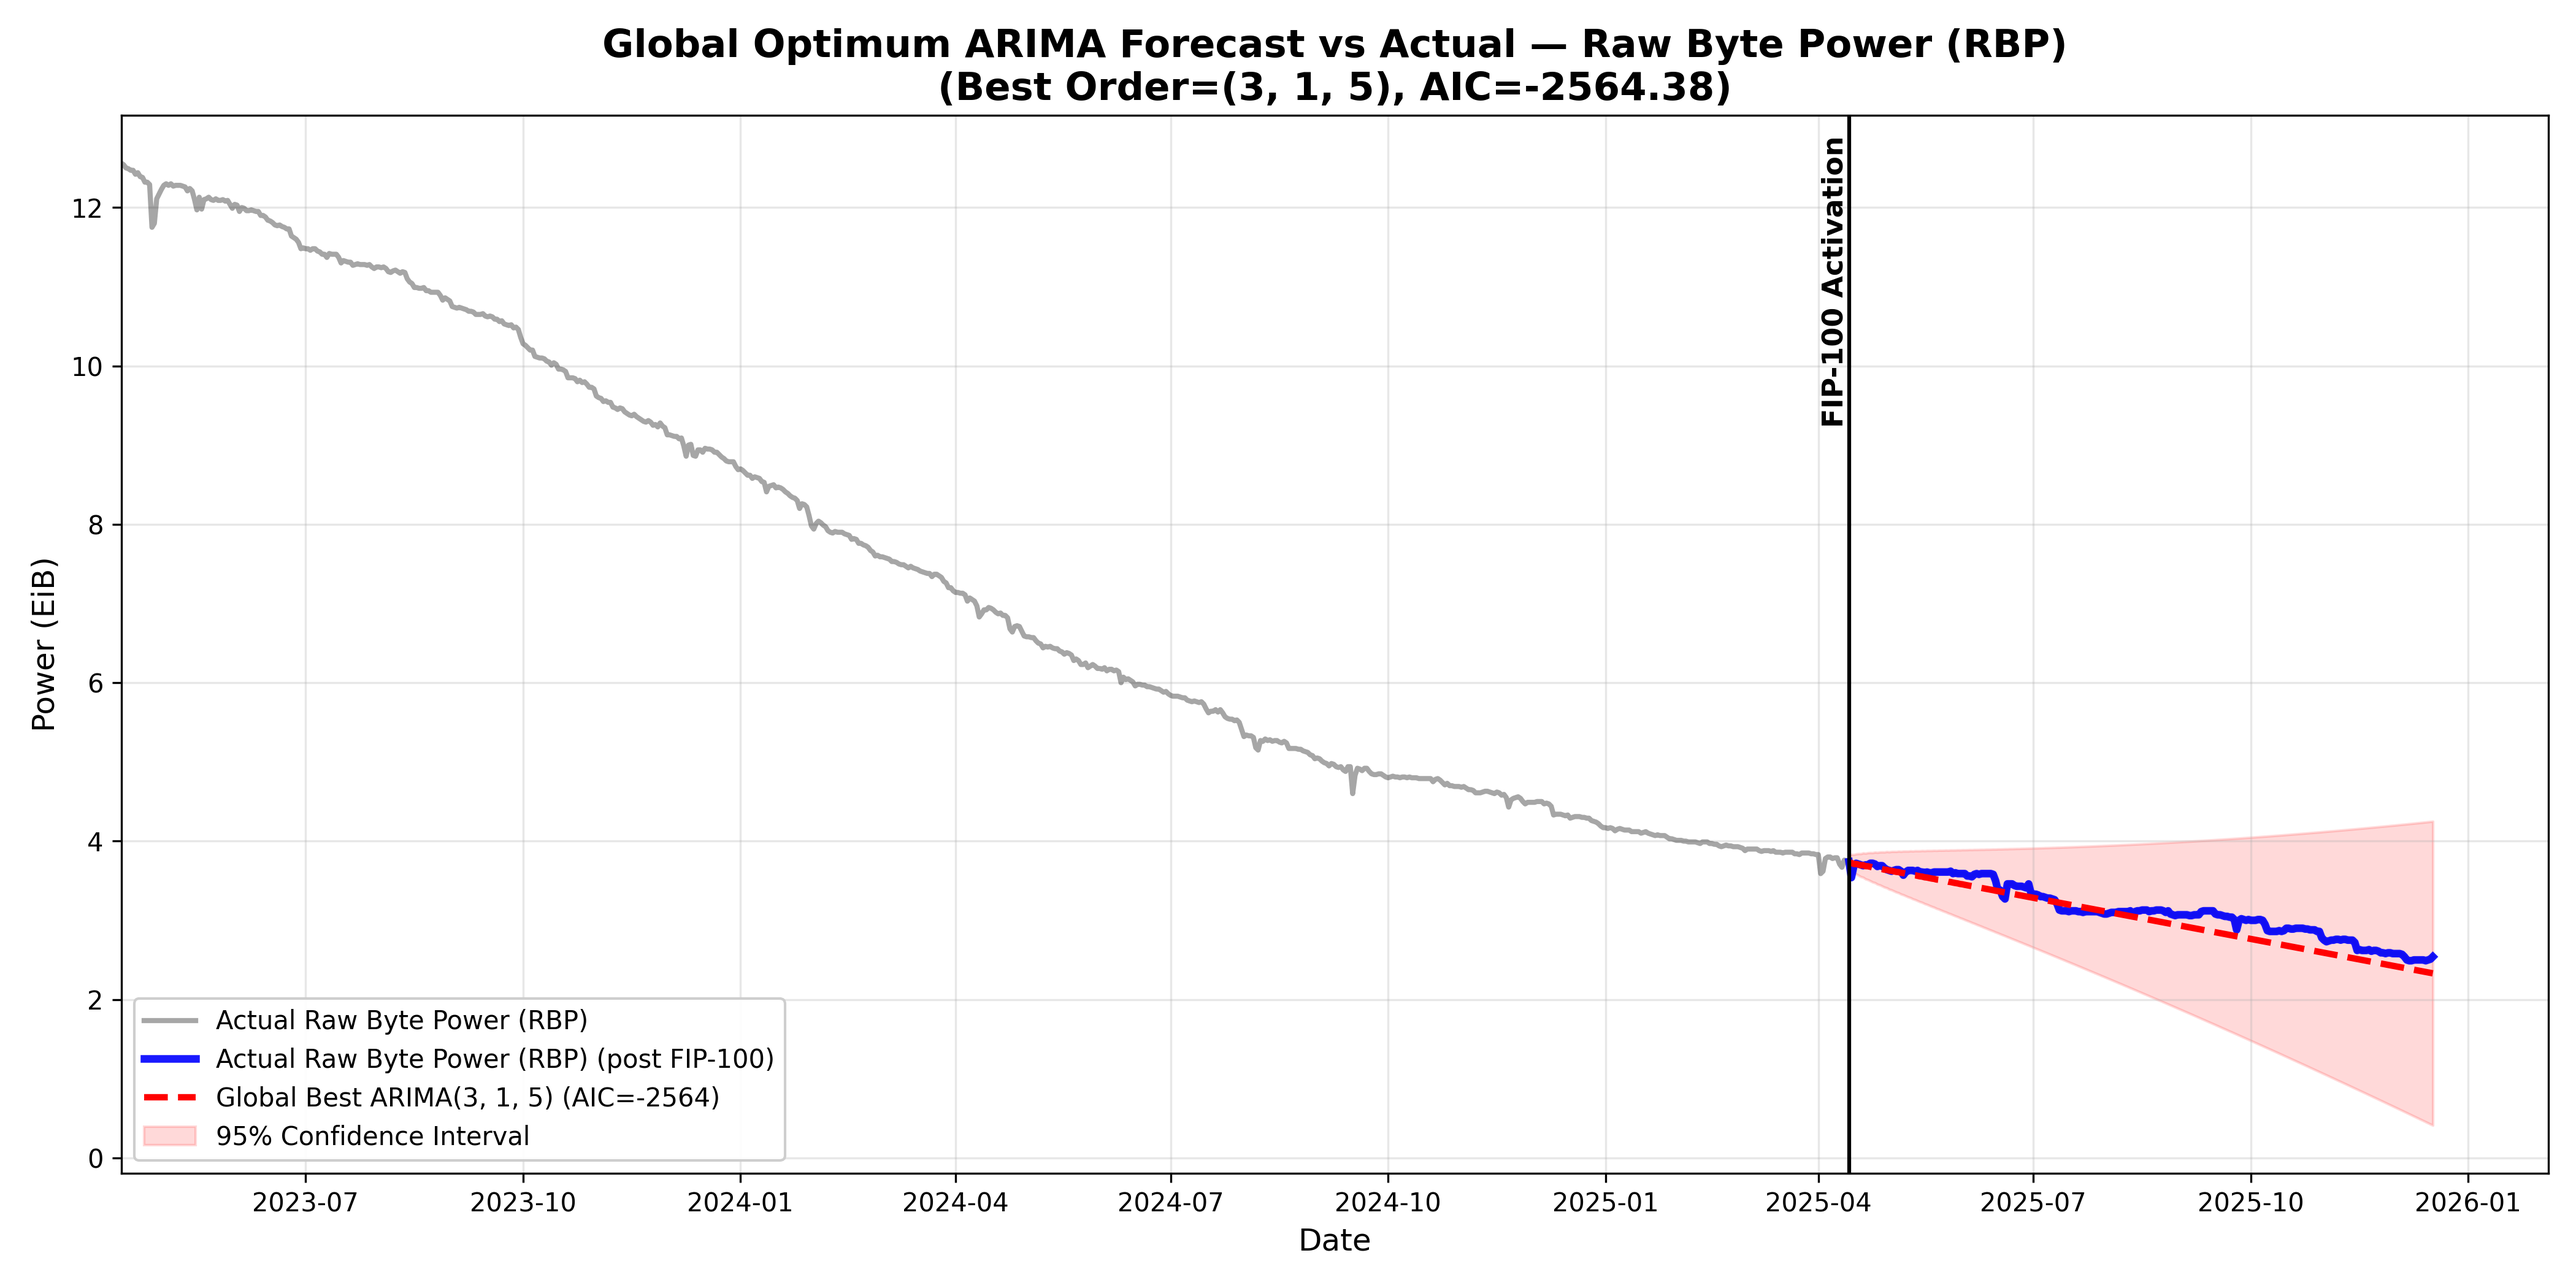
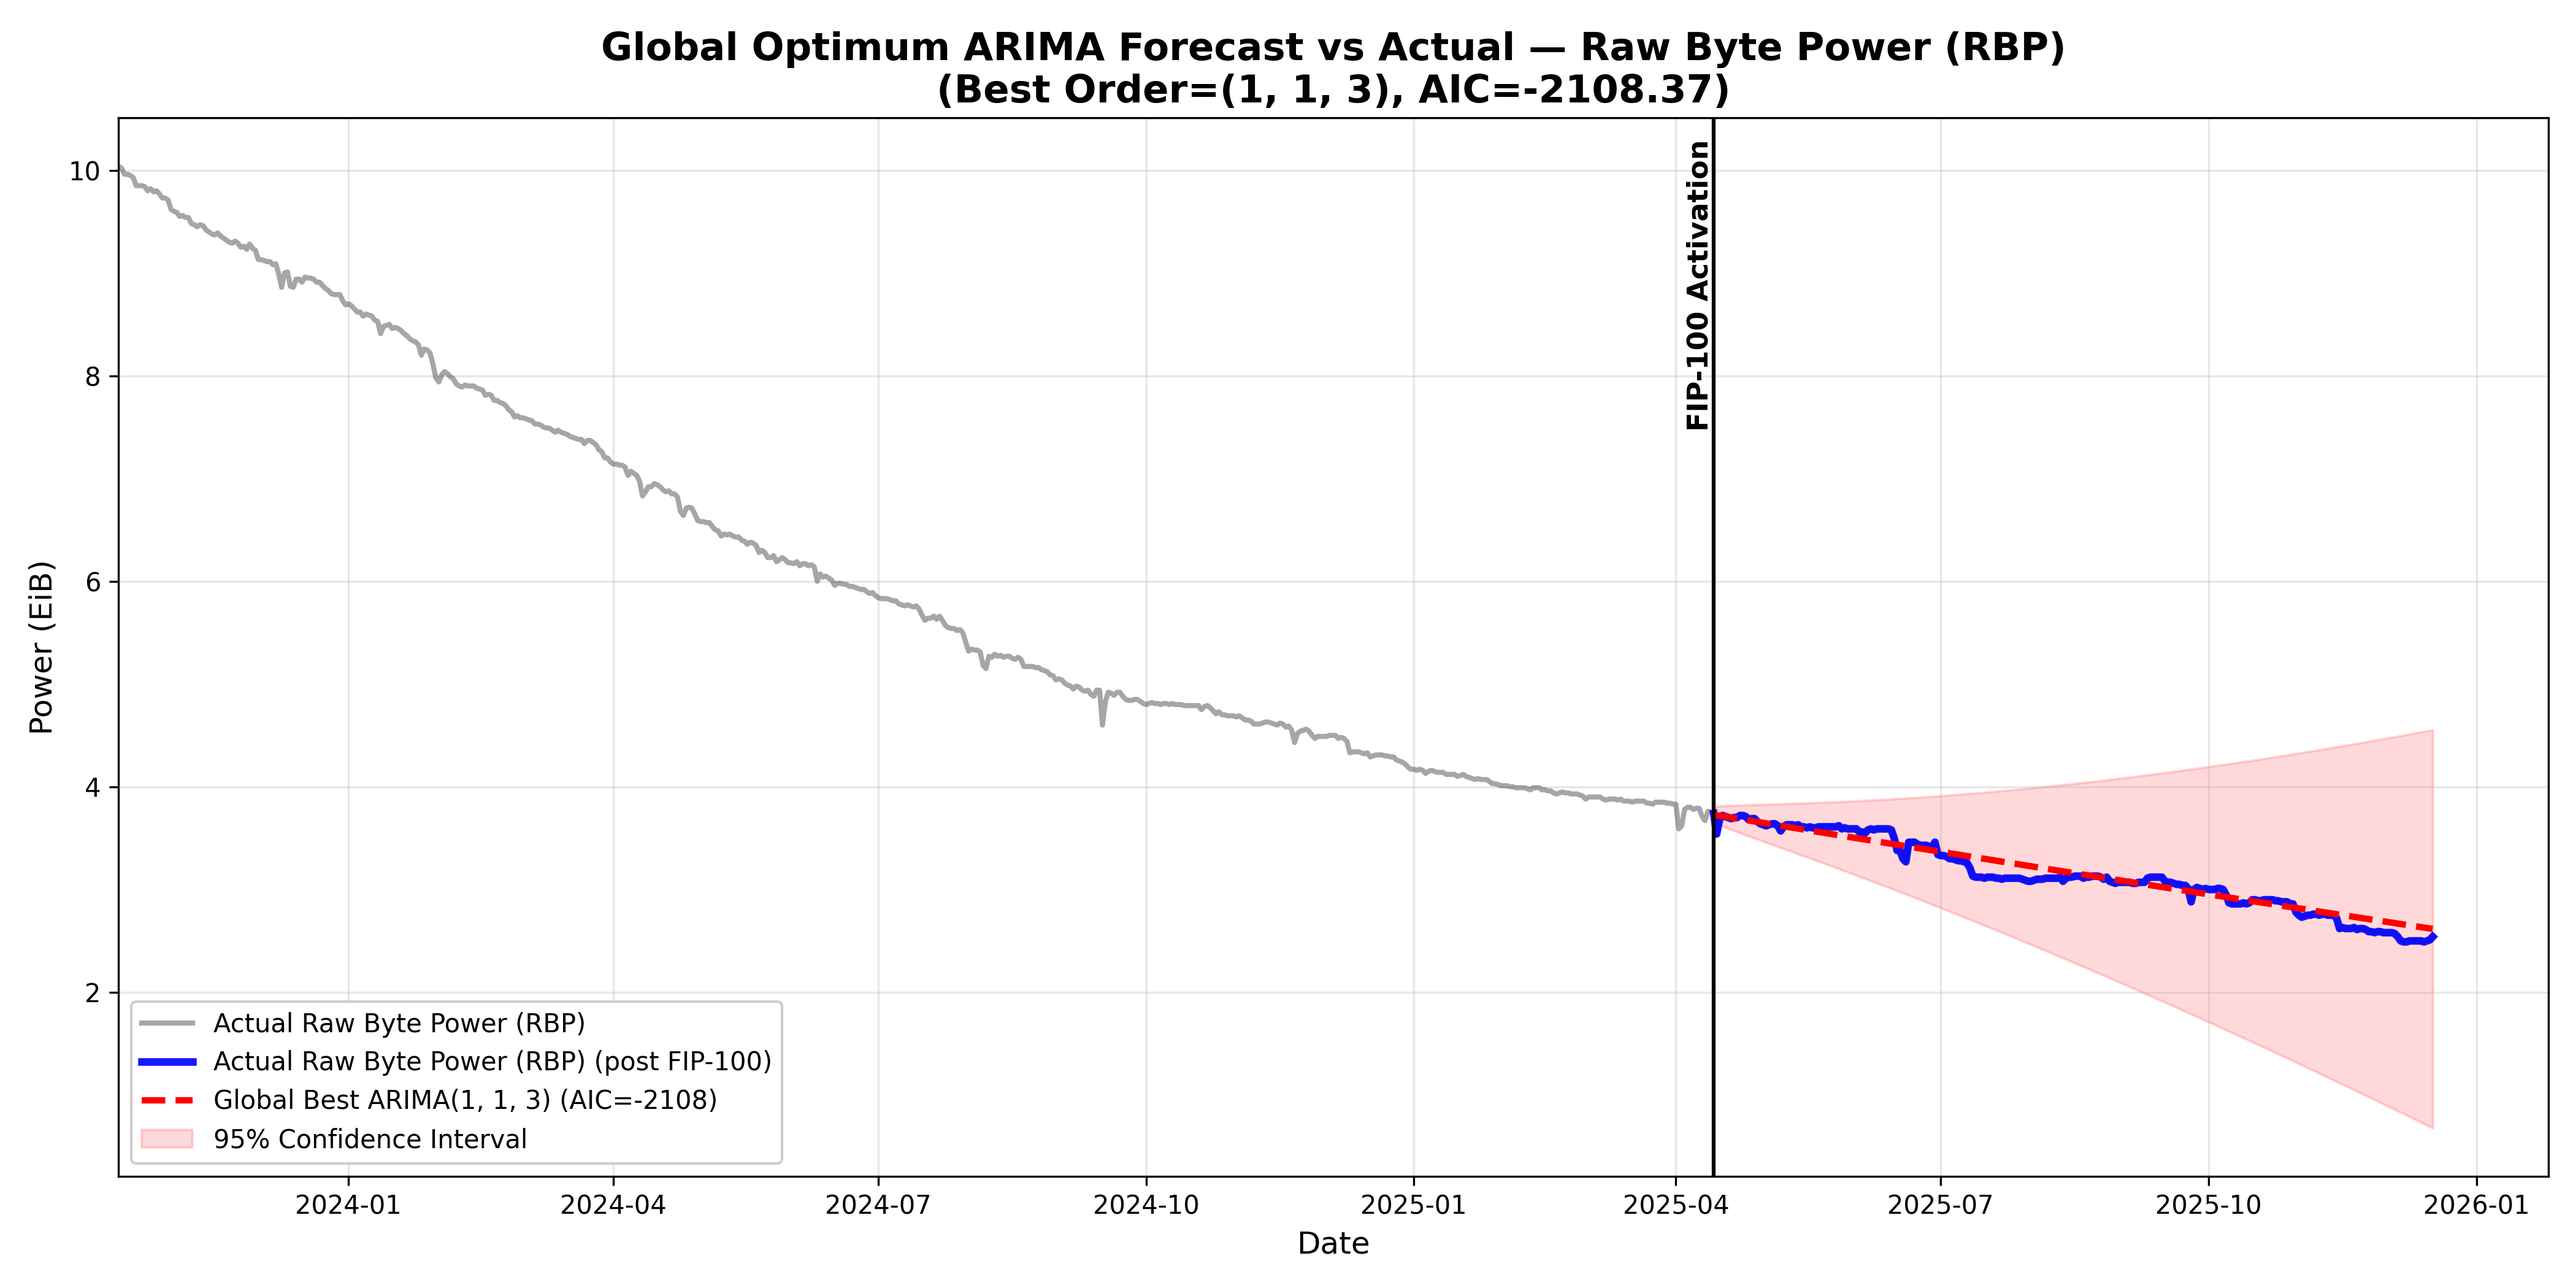
Included lljungbox analysis to check parameters choice

diff --git a/main.py b/main.py
@@ -1,5 +1,6 @@
 import warnings
 from statsmodels.tools.sm_exceptions import ConvergenceWarning
+from statsmodels.stats.diagnostic import acorr_ljungbox
 
 import pandas as pd
 import numpy as np
@@ -9,10 +10,53 @@ from pathlib import Path
 from statsmodels.tsa.arima.model import ARIMA
 import itertools
 
+
+from statsmodels.graphics.tsaplots import plot_acf
+from statsmodels.graphics.gofplots import qqplot
+import scipy.stats as stats
+
+def plot_diagnostics(res, name):
+    """
+    Generates a 4-panel diagnostic plot for the ARIMA residuals.
+    """
+    # Extract standardized residuals
+    resid = res.resid
+    
+    # Create figure
+    fig, axes = plt.subplots(2, 2, figsize=(12, 10))
+    fig.suptitle(f"ARIMA Diagnostics: {name}\nOrder={res.model.order}, AIC={res.aic:.2f}", fontsize=16)
+
+    # 1. Residuals over Time
+    axes[0, 0].plot(resid, color='blue', alpha=0.7)
+    axes[0, 0].axhline(0, color='black', linestyle='--', lw=1)
+    axes[0, 0].set_title("Standardized Residuals (Time)")
+    axes[0, 0].set_ylabel("Error")
+
+    # 2. Histogram + KDE vs Normal
+    axes[0, 1].hist(resid, density=True, bins=30, alpha=0.5, color='gray', label='Residuals')
+    kde = stats.gaussian_kde(resid)
+    x_range = np.linspace(resid.min(), resid.max(), 100)
+    axes[0, 1].plot(x_range, kde(x_range), color='blue', label='KDE')
+    axes[0, 1].plot(x_range, stats.norm.pdf(x_range, resid.mean(), resid.std()), color='red', linestyle='--', label='N(0,1)')
+    axes[0, 1].set_title("Histogram vs. Normal Distribution")
+    axes[0, 1].legend()
+
+    # 3. Q-Q Plot (Normality)
+    qqplot(resid, line='s', ax=axes[1, 0])
+    axes[1, 0].set_title("Normal Q-Q Plot")
+
+    # 4. ACF of Residuals (Autocorrelation)
+    plot_acf(resid, ax=axes[1, 1], lags=40, title="ACF of Residuals")
+
+    plt.tight_layout()
+    plt.savefig(f"diagnostics_{name.replace(' ', '_').lower()}.png", dpi=300)
+    plt.close()
+    print(f"[{name}] Diagnostics saved.")
+
 # --- Configuration ---
 DATA_FILE = "Network_Storage_Capacity.csv"
 EVENT_DATE = pd.to_datetime("2025-04-14")     # FIP-100 Live Date
-VIEW_START_DATE = pd.to_datetime("2023-04-14")
+VIEW_START_DATE = pd.to_datetime("2023-10-14")
 DPI = 300
 OUTPUT_PREFIX = "arima_global_search"
 
@@ -87,58 +131,83 @@ def fit_arima_with_convergence(y_train: pd.Series, order: tuple[int, int, int]):
 
 def find_global_best_model(y_train: pd.Series, name: str):
     """
-    Perform a grid search over P_RANGE, D_RANGE, Q_RANGE to find the global best AIC.
+    Grid search that prioritizes models with 'clean' residuals (White Noise).
+    
+    Selection Logic:
+    1. Primary Goal: Find model with lowest AIC where Ljung-Box p-value > 0.05 (Valid).
+    2. Fallback: If NO model passes Ljung-Box, take absolute lowest AIC (and warn user).
     """
     y_train = y_train.dropna().astype(float)
-    
-    # Generate all combinations
     candidates = list(itertools.product(P_RANGE, D_RANGE, Q_RANGE))
     total_candidates = len(candidates)
     
-    print(f"\n[{name}] Starting Global Grid Search over {total_candidates} ARIMA models...")
-    print(f"   Ranges -> p: {P_RANGE}, d: {D_RANGE}, q: {Q_RANGE}")
+    print(f"\n[{name}] Starting Smart Grid Search over {total_candidates} models...")
+
+    # -- Tracking "Clean" Models (Passes Ljung-Box) --
+    best_clean_aic = np.inf
+    best_clean_order = None
+    best_clean_res = None
     
-    best_aic = np.inf
-    best_order = None
-    best_res = None
-    best_converged = False
+    # -- Tracking "Raw" Models (Absolute best AIC, even if residuals are bad) --
+    best_raw_aic = np.inf
+    best_raw_order = None
+    best_raw_res = None
     
-    # Track metrics for reporting
     converged_count = 0
-    failed_count = 0
+    clean_count = 0
     
     for i, order in enumerate(candidates):
-        # Optional progress indicator for long searches
         if i % 20 == 0:
-            print(f"   Searching... {i}/{total_candidates} (Best AIC so far: {best_aic:.2f})", end='\r')
+            print(f"   Searching... {i}/{total_candidates} (Best Valid AIC: {best_clean_aic if best_clean_aic != np.inf else 'None'})", end='\r')
             
         res, aic, conv, err = fit_arima_with_convergence(y_train, order)
         
-        if err:
-            failed_count += 1
+        if not conv or err:
             continue
             
-        if conv:
-            converged_count += 1
-            # Prefer converged models with lower AIC
-            if aic < best_aic:
-                best_aic = aic
-                best_order = order
-                best_res = res
-                best_converged = True
-        else:
-            # If we haven't found any converged model yet, we might track the best non-converged one as fallback
-            # But strictly speaking, we want the best *converged* one.
-            pass
+        converged_count += 1
+        
+        # --- DIAGNOSTIC CHECK: Ljung-Box Test ---
+        # We test at lag 10 (standard for daily data) to see if there is auto-correlation left.
+        # H0: Residuals are random (Good). p-value < 0.05 rejects H0 (Bad).
+        try:
+            lb_df = acorr_ljungbox(res.resid, lags=[10], return_df=True)
+            p_value = lb_df['lb_pvalue'].iloc[0]
+            is_clean = p_value > 0.05
+        except:
+            is_clean = False
+            
+        # 1. Update Raw Best (Fallback)
+        if aic < best_raw_aic:
+            best_raw_aic = aic
+            best_raw_order = order
+            best_raw_res = res
+            
+        # 2. Update Clean Best (Primary Target)
+        if is_clean:
+            clean_count += 1
+            if aic < best_clean_aic:
+                best_clean_aic = aic
+                best_clean_order = order
+                best_clean_res = res
 
     print(f"\n[{name}] Search Complete.")
-    print(f"   Converged: {converged_count}, Failed/Non-conv: {total_candidates - converged_count}")
-    
-    if best_res is None:
-        raise RuntimeError(f"[{name}] No model converged during grid search.")
+    print(f"   Converged: {converged_count}, Passed Ljung-Box: {clean_count}")
+
+    # --- DECISION LOGIC ---
+    if best_clean_res is not None:
+        print(f"[{name}] ✅ Selected Valid Model: {best_clean_order} (AIC={best_clean_aic:.2f})")
+        print(f"   (Note: Absolute lowest AIC was {best_raw_order} at {best_raw_aic:.2f})")
+        return best_clean_res, best_clean_order, best_clean_aic, True
         
-    print(f"[{name}] GLOBAL BEST Selected: ARIMA{best_order} with AIC={best_aic:.2f} ✅")
-    return best_res, best_order, best_aic, best_converged
+    elif best_raw_res is not None:
+        print(f"[{name}] ⚠ WARNING: No model passed diagnostic tests.")
+        print(f"   Falling back to lowest AIC model: {best_raw_order} (AIC={best_raw_aic:.2f})")
+        print(f"   This model may be overfitting or missing signal.")
+        return best_raw_res, best_raw_order, best_raw_aic, True
+        
+    else:
+        raise RuntimeError(f"[{name}] No model converged.")
 
 
 # -----------------------
@@ -155,6 +224,7 @@ def plot_arima_forecast(series: pd.Series, name: str):
 
     # Find Global Best Model
     res, chosen_order, aic, converged = find_global_best_model(train, name)
+    #plot_diagnostics(res, name)
 
     # Forecast post period
     steps = len(post)
